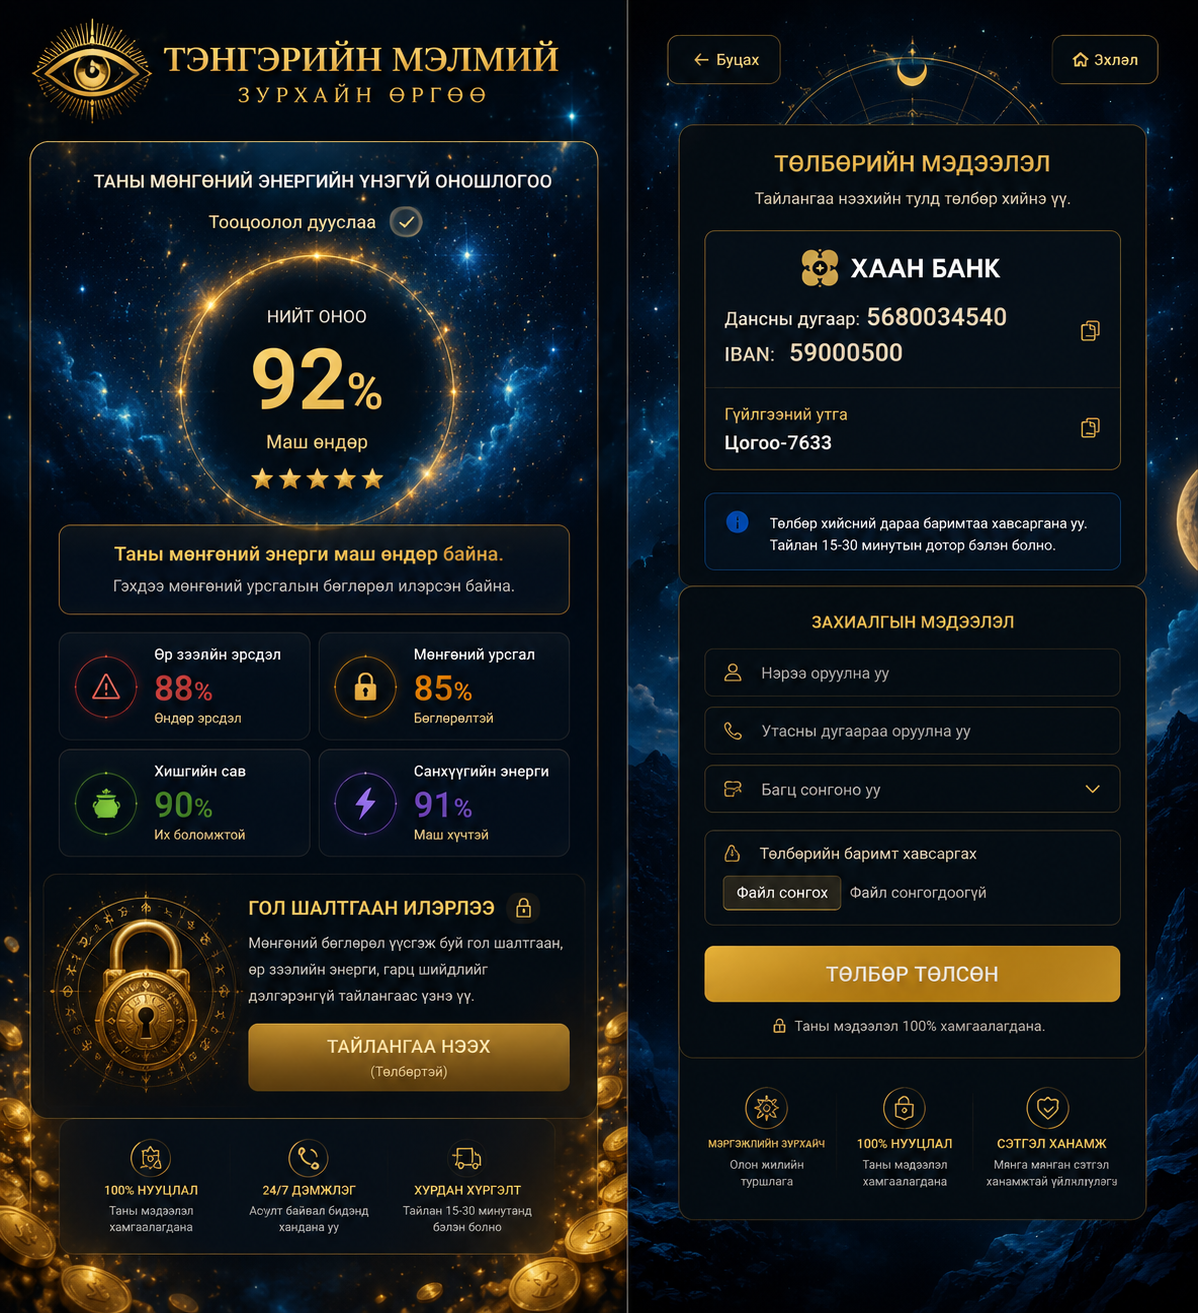
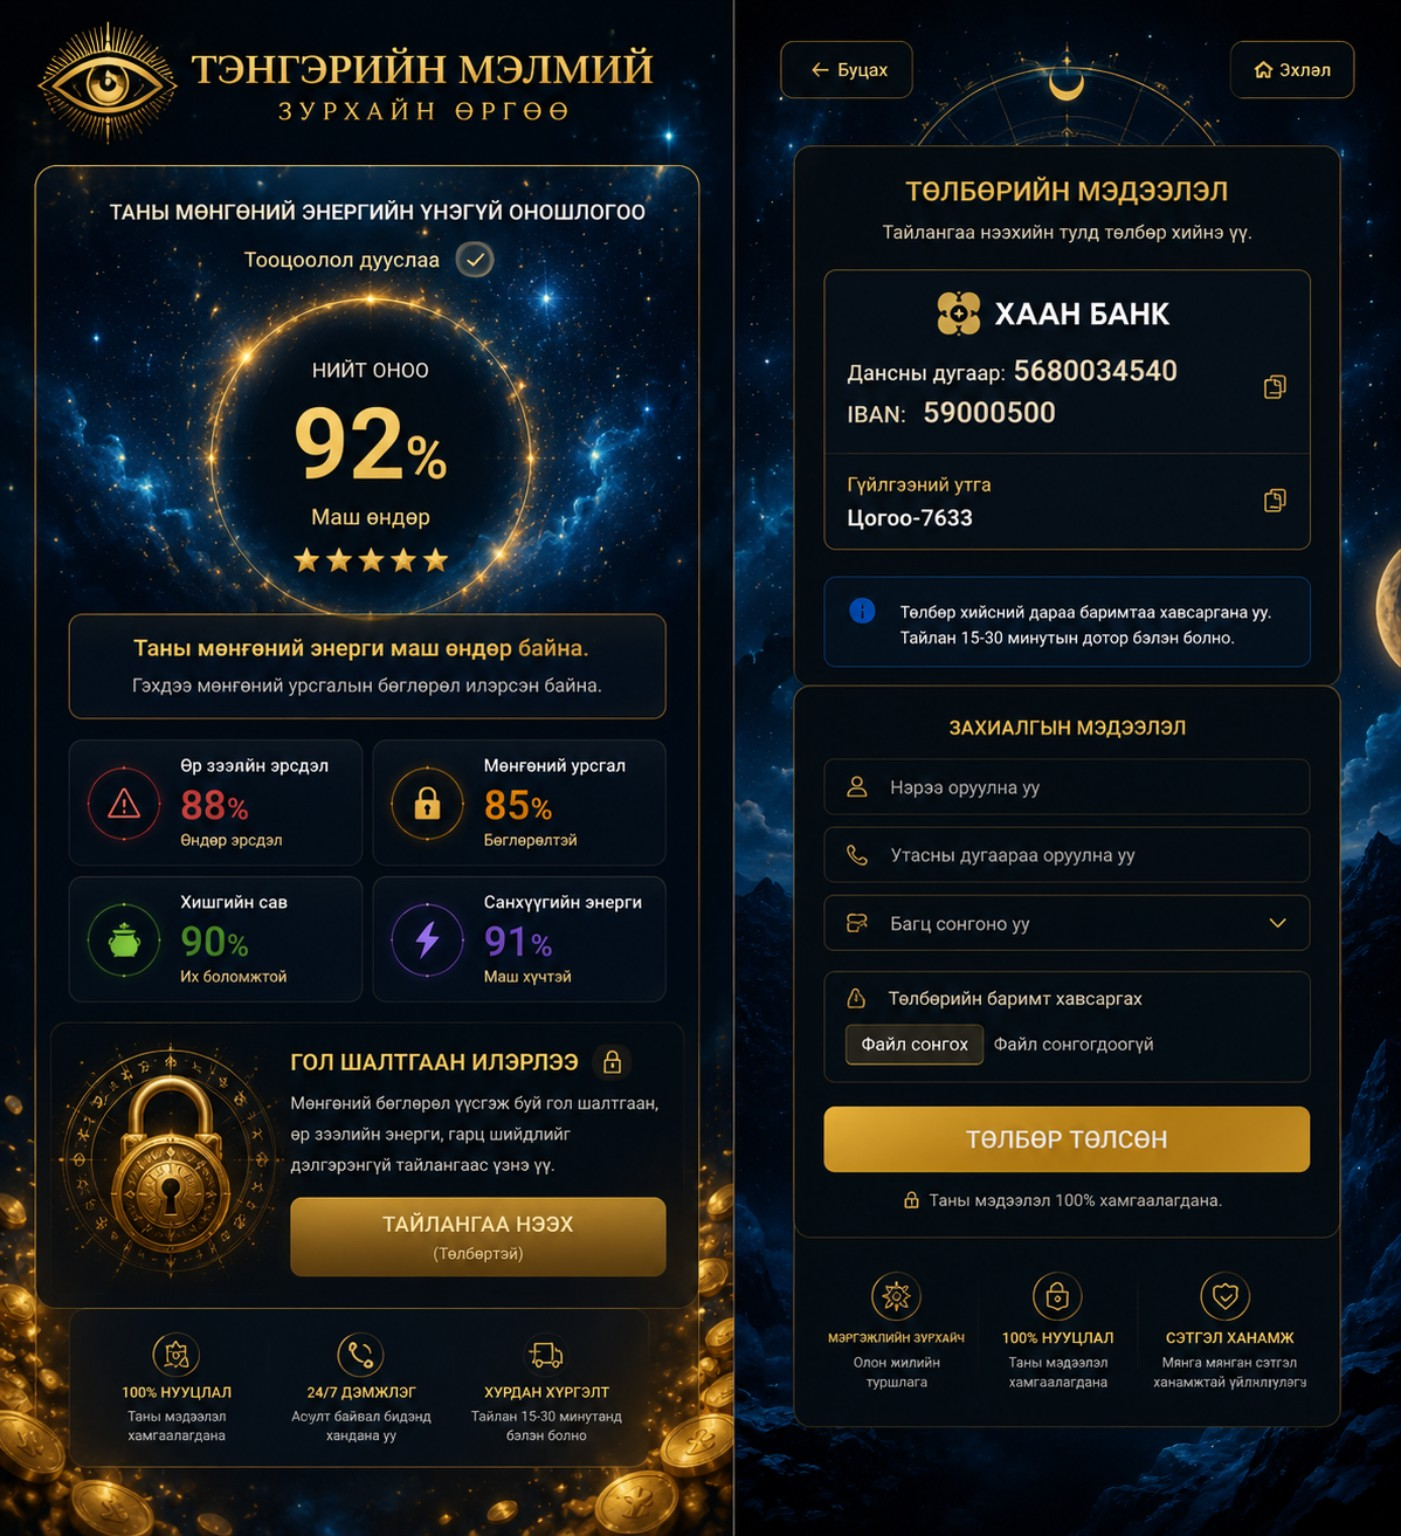
Add files via upload

diff --git a/style.css b/style.css
@@ -28,3 +28,106 @@
 .linkbox b{display:block;color:var(--gold);margin-bottom:8px}.linkbox textarea{width:100%;min-height:82px;border-radius:12px;border:1px solid var(--line);background:rgba(0,0,0,.25);color:#fff;padding:10px;font-size:12px}.linkbox small{display:block;color:var(--muted);margin-top:8px;line-height:1.45}
 .public-report{max-width:1120px}.public-head{text-align:center;margin:20px auto 26px}.public-head h2{color:var(--gold);font-size:34px}.public-head p{color:var(--silver)}.result-actions{text-align:center;margin:22px 0}.public-report .tm-report{justify-content:center;flex-wrap:wrap}
 @media print{body{background:#fff}.stars,.public-head,.result-actions{display:none!important}.screen{display:block!important}.public-report{max-width:none}.tm-report{display:block!important}.rpage{width:210mm!important;max-width:none!important;min-width:0!important;min-height:297mm!important;border-radius:0!important;box-shadow:none!important;page-break-after:always}}
+
+
+
+/* === TENGER FIX PACK: melhii-style premium system update === */
+:root{
+  --tm-bg:#07111f; --tm-gold:#f7c96b; --tm-gold2:#c8892f; --tm-ink:#fff7df;
+  --tm-muted:#a9bbd2; --tm-card:rgba(8,18,34,.82); --tm-line:rgba(247,201,107,.28);
+}
+body{
+  background:
+    radial-gradient(circle at 20% 5%,rgba(29,99,190,.55),transparent 30%),
+    radial-gradient(circle at 80% 10%,rgba(247,201,107,.24),transparent 28%),
+    linear-gradient(180deg,#07111f,#020712 72%) !important;
+  color:var(--tm-ink) !important;
+}
+body::before{
+  content:""; position:fixed; inset:0; pointer-events:none; z-index:-1;
+  background-image:radial-gradient(#fff 1px,transparent 1px),radial-gradient(var(--tm-gold) 1px,transparent 1px);
+  background-size:46px 46px,88px 88px; opacity:.18;
+}
+.card,.form-card,.pay-card,.order,.score,.warning,.locked,.pkg,.bank,.modal-card{
+  background:var(--tm-card) !important;
+  border:1px solid var(--tm-line) !important;
+  border-radius:28px !important;
+  box-shadow:0 24px 70px rgba(0,0,0,.35) !important;
+  backdrop-filter:blur(18px) !important;
+}
+.gold,button.gold,.full,.pkg button,.pay-card button,#submitBtn,.admin-open{
+  background:linear-gradient(135deg,#ffe49a,#f7c96b,#b56f22) !important;
+  color:#1d1202 !important;
+  border:0 !important;
+  border-radius:18px !important;
+  font-weight:900 !important;
+}
+button:disabled,#submitBtn:disabled{
+  opacity:.35 !important; filter:grayscale(1) !important; pointer-events:none !important;
+}
+h1,h2,.brand,.amount,.score b{color:var(--tm-gold) !important}
+input,select,textarea{
+  border:1px solid rgba(247,201,107,.24) !important;
+  border-radius:16px !important;
+  background:rgba(255,255,255,.07) !important;
+  color:#fff !important;
+}
+.hero-art{
+  background-image:linear-gradient(rgba(7,17,31,.18),rgba(2,7,18,.42)),url('bg-preview.png') !important;
+  background-size:cover !important; background-position:center !important;
+}
+.hero-art img{display:none !important}
+
+/* short registration */
+.tm-quick-form{display:grid;gap:12px;margin-top:18px}
+.tm-date-row{display:grid;grid-template-columns:1fr;gap:12px}
+
+/* bank copy UI */
+.tm-bank-copy{display:grid;gap:10px;margin:16px 0}
+.tm-copy-line{
+  display:grid;grid-template-columns:1fr auto auto;gap:10px;align-items:center;
+  padding:14px;border:1px solid rgba(247,201,107,.25);border-radius:18px;
+  background:rgba(255,255,255,.055)
+}
+.tm-copy-line span{color:var(--tm-muted);font-size:13px}
+.tm-copy-line b{font-size:18px;color:var(--tm-gold)}
+.tm-copy-line button{
+  border:1px solid var(--tm-line)!important;background:rgba(255,255,255,.06)!important;
+  color:var(--tm-gold)!important;border-radius:12px!important;padding:9px 11px!important
+}
+.tm-paid-check{
+  display:flex;gap:10px;align-items:flex-start;margin:16px 0;padding:14px;
+  border:1px solid var(--tm-line);border-radius:18px;background:rgba(255,255,255,.05)
+}
+.tm-paid-check input{width:22px!important;height:22px!important;margin-top:2px!important}
+.receipt,.receipt-wrap,.file-upload,input[type=file]{
+  display:none !important;
+}
+
+/* result like screenshot */
+.score-grid{display:grid;grid-template-columns:repeat(2,minmax(0,1fr));gap:14px}
+.score:first-child{
+  grid-column:1/-1;text-align:center;padding:34px 20px!important;
+  background:radial-gradient(circle at 50% 35%,rgba(247,201,107,.2),rgba(8,18,34,.82) 56%)!important;
+}
+.score:first-child b{font-size:76px!important;line-height:1}
+.warning{
+  display:grid;grid-template-columns:120px 1fr;gap:18px;align-items:center;
+  background:linear-gradient(135deg,rgba(247,201,107,.14),rgba(8,18,34,.86))!important;
+}
+.warning:before{
+  content:"🔒";display:grid;place-items:center;width:110px;height:110px;border-radius:50%;
+  font-size:48px;color:var(--tm-gold);border:1px solid var(--tm-line);
+  box-shadow:0 0 38px rgba(247,201,107,.16)
+}
+.locked div{filter:blur(1.5px);opacity:.72}
+.pkg.hot,.pkg.best{border-color:var(--tm-gold)!important;box-shadow:0 0 45px rgba(247,201,107,.18)!important}
+.pkg strong,.price,.amount{font-size:42px!important;color:var(--tm-gold)!important}
+
+@media(max-width:850px){
+  .score-grid{grid-template-columns:1fr}
+  .warning{grid-template-columns:1fr;text-align:center}
+  .warning:before{margin:auto}
+  .tm-copy-line{grid-template-columns:1fr auto}
+  .tm-copy-line span{grid-column:1/-1}
+}

diff --git a/app.js b/app.js
@@ -123,13 +123,13 @@ function previewReceipt(input){const f=input.files[0]; if(!f)return; const r=new
 window.previewReceipt=previewReceipt;
 
 async function submitOrder(){
- if(!client.name){alert('Эхлээд шинжилгээ бөглөнө үү');return} if(!selected.name){alert('Багц сонгоно уу');return} if(!receiptData){alert('Баримтын зураг оруулна уу');return}
+ if(!client.name){alert('Эхлээд шинжилгээ бөглөнө үү');return} if(!selected.name){alert('Багц сонгоно уу');return} 
  const n=seedFor({client})%100;
  const order={
    date:new Date().toLocaleString('mn-MN'), createdAt: serverTimestamp(), updatedAt: Date.now(),
    status:'Шинэ захиалга', client, package:selected,
    result:{money:(88+(n%10))+'%', debt:'Илэрсэн', luck:(80+(n%13))+'%'},
-   receipt: receiptData.slice(0,900000), reportId:''
+   receipt: receiptData || '' ? receiptData.slice(0,900000) : '', reportId:''
  };
  try{await addDoc(collection(db,'orders'), order); go('thanks')}
  catch(e){alert('Firebase-д хадгалах үед алдаа гарлаа: '+e.message)}
@@ -232,3 +232,30 @@ window.exportOrders=exportOrders;
 function burstCoin(e){const coin=e.currentTarget; const r=coin.getBoundingClientRect(); const cx=r.left+r.width/2, cy=r.top+r.height/2; coin.classList.add('explode'); const flash=document.createElement('i'); flash.className='flash-burst'; flash.style.left=(cx-9)+'px'; flash.style.top=(cy-9)+'px'; document.body.appendChild(flash); setTimeout(()=>flash.remove(),600); for(let i=0;i<36;i++){const s=document.createElement('i'); s.className='spark'; const a=(Math.PI*2*i/36)+(Math.random()*.45); const d=70+Math.random()*140; s.style.left=cx+'px'; s.style.top=cy+'px'; s.style.setProperty('--x',Math.cos(a)*d+'px'); s.style.setProperty('--y',Math.sin(a)*d+'px'); document.body.appendChild(s); setTimeout(()=>s.remove(),900)} for(let i=0;i<14;i++){const piece=document.createElement('i'); piece.className='coin-piece'; piece.textContent='₮'; const a=(Math.PI*2*i/14)+(Math.random()*.7); const d=80+Math.random()*170; piece.style.left=(cx-11)+'px'; piece.style.top=(cy-11)+'px'; piece.style.setProperty('--x',Math.cos(a)*d+'px'); piece.style.setProperty('--y',Math.sin(a)*d+'px'); piece.style.setProperty('--rot',(Math.random()*720-360)+'deg'); document.body.appendChild(piece); setTimeout(()=>piece.remove(),1050)} if(navigator.vibrate) navigator.vibrate(45); setTimeout(()=>coin.classList.remove('explode'),760)}
 window.burstCoin=burstCoin;
 if('serviceWorker' in navigator) navigator.serviceWorker.register('sw.js').catch(()=>{});
+
+
+
+/* === TENGER FIX PACK JS === */
+function tmCopyValue(id){
+  const el=document.getElementById(id);
+  if(!el) return;
+  navigator.clipboard && navigator.clipboard.writeText(el.textContent.trim());
+  alert('Хууллаа');
+}
+window.tmCopyValue = tmCopyValue;
+
+function tmTogglePaid(){
+  const c=document.getElementById('tmPaidCheck');
+  const b=document.getElementById('submitBtn') || document.querySelector('[onclick*="submitOrder"]');
+  if(b) b.disabled = !(c && c.checked);
+}
+window.tmTogglePaid = tmTogglePaid;
+
+function tmFillTxn(){
+  const phone = document.getElementById('phone')?.value || document.querySelector('[name=phone]')?.value || '';
+  const txn = document.getElementById('tmTxn');
+  if(txn) txn.textContent = phone || 'утасны дугаар';
+}
+document.addEventListener('input', tmFillTxn);
+document.addEventListener('change', tmFillTxn);
+document.addEventListener('DOMContentLoaded',()=>{tmFillTxn(); tmTogglePaid();});

diff --git a/index.html b/index.html
@@ -157,7 +157,16 @@ body:after{content:"";position:fixed;inset:0;z-index:-2;background-image:
     <div class="copyLine"><span>IBAN</span><b id="ibanNo">59000500</b><button onclick="copyText('ibanNo')">📋</button></div>
     <div class="copyLine"><span>Гүйлгээний утга</span><b id="txn">утас</b><button onclick="copyText('txn')">📋</button></div>
     <label class="check"><input id="paidCheck" type="checkbox" onchange="toggleSubmit()"> <span>Би дээрх данс руу төлбөрөө амжилттай шилжүүлсэн.</span></label>
-    <button id="submitBtn" class="btn" disabled onclick="submitOrder()">Захиалга илгээх</button>
+    
+<div class="tm-bank-copy">
+  <div class="tm-copy-line"><span>Данс эзэмшигч</span><b id="tmAccName">Л.Батцог</b><button type="button" onclick="tmCopyValue('tmAccName')">📋</button></div>
+  <div class="tm-copy-line"><span>Банк</span><b id="tmBank">Хаан банк</b><button type="button" onclick="tmCopyValue('tmBank')">📋</button></div>
+  <div class="tm-copy-line"><span>Данс</span><b id="tmAccNo">5690034540</b><button type="button" onclick="tmCopyValue('tmAccNo')">📋</button></div>
+  <div class="tm-copy-line"><span>IBAN</span><b id="tmIban">59000500</b><button type="button" onclick="tmCopyValue('tmIban')">📋</button></div>
+  <div class="tm-copy-line"><span>Гүйлгээний утга</span><b id="tmTxn">утасны дугаар</b><button type="button" onclick="tmCopyValue('tmTxn')">📋</button></div>
+</div>
+<label class="tm-paid-check"><input id="tmPaidCheck" type="checkbox" onchange="tmTogglePaid()"> <span>Би дээрх данс руу төлбөрөө амжилттай шилжүүлсэн.</span></label>
+<button id="submitBtn" disabled  id="submitBtn" class="btn" disabled onclick="submitOrder()">Захиалга илгээх</button>
   </section>
 
   <section class="card pay" id="success">